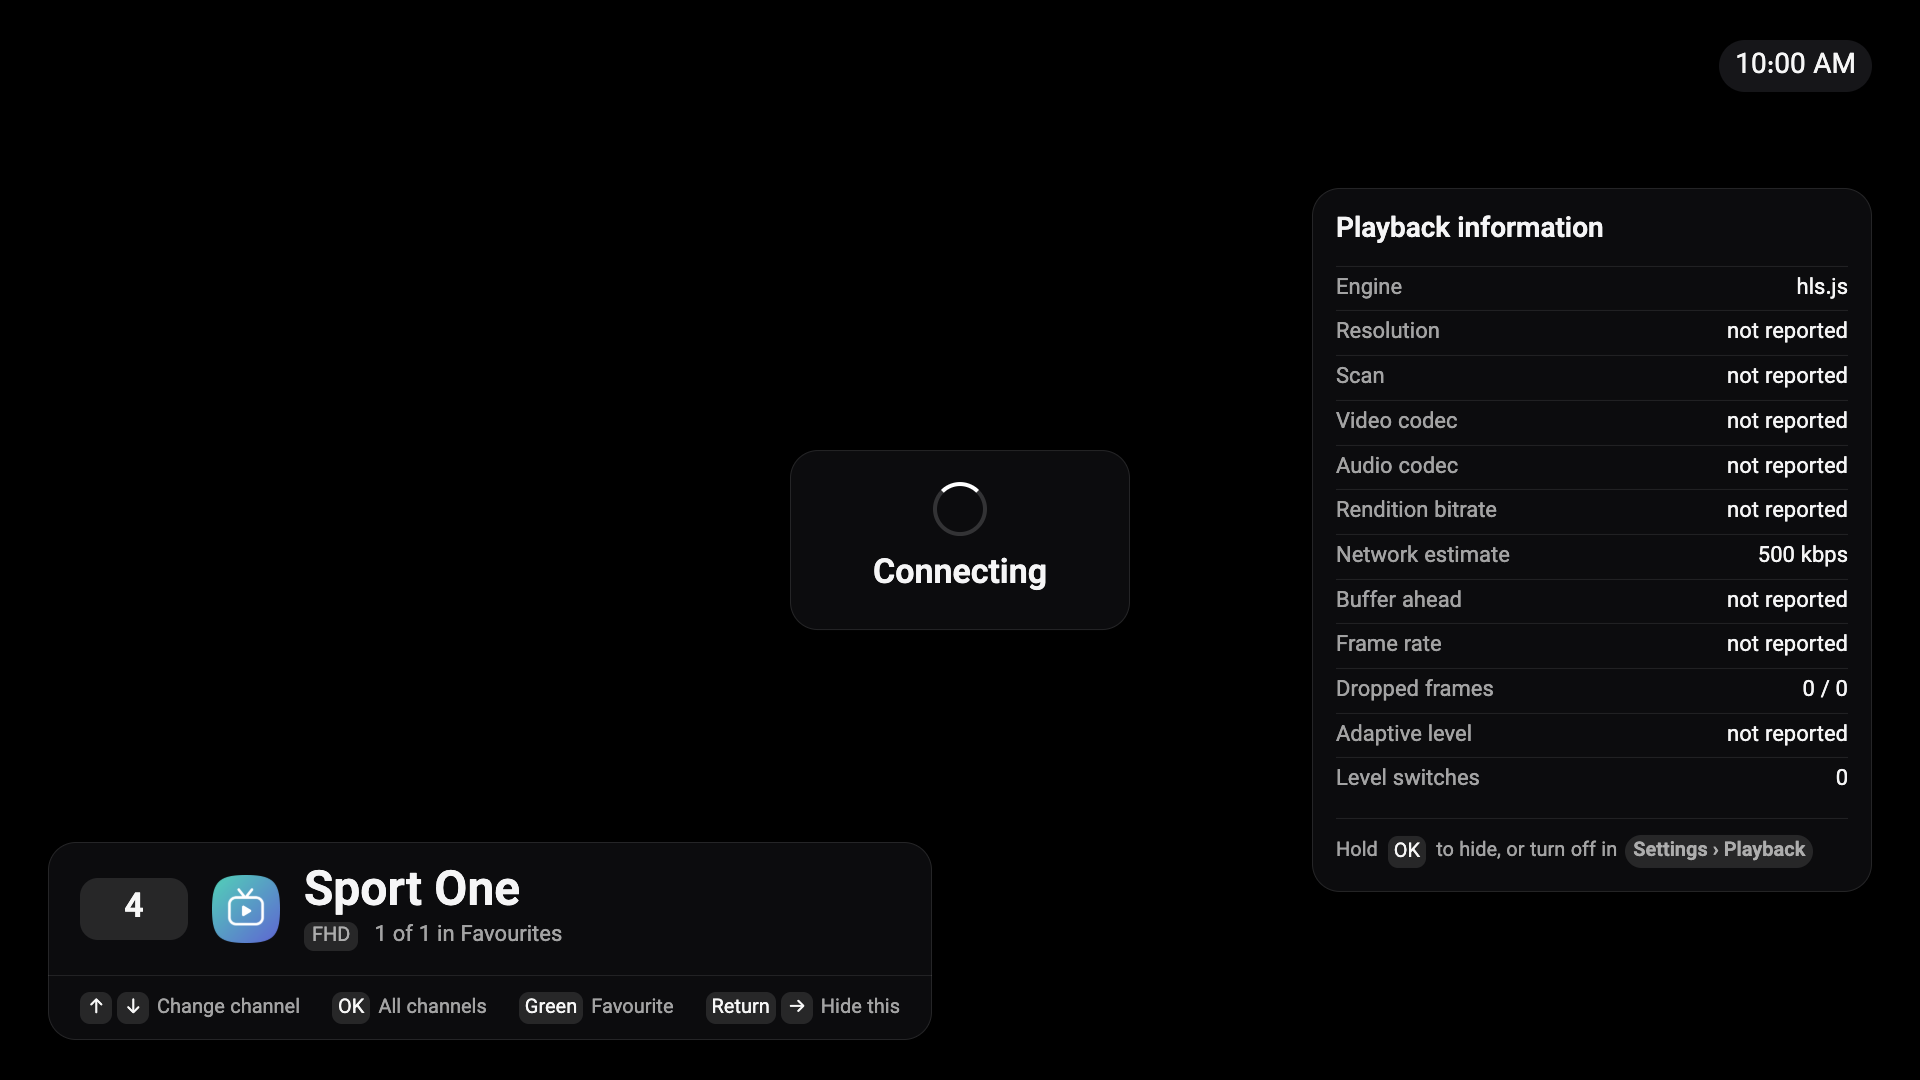
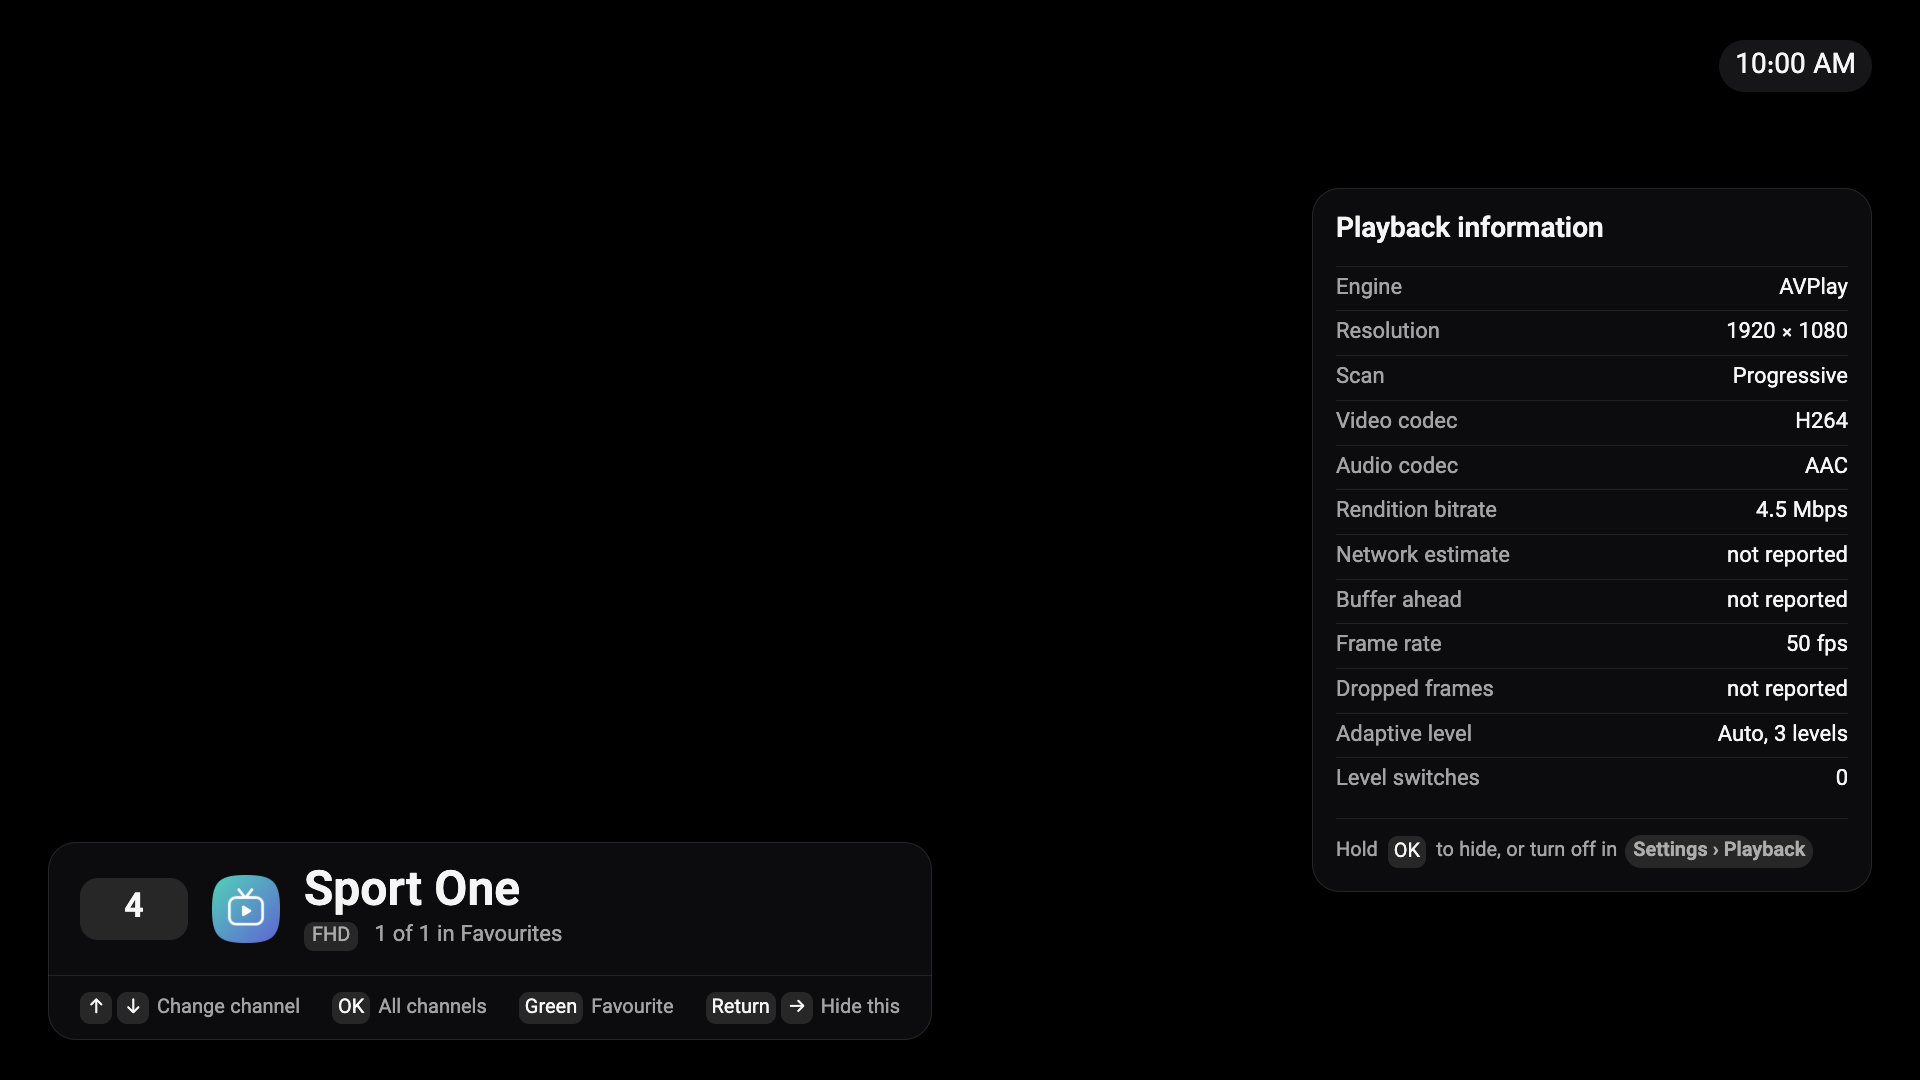
docs: show playback reports in screenshot
Generated with [Devin](https://devin.ai)

diff --git a/README.md b/README.md
@@ -20,7 +20,7 @@ The [demo playlist](https://shayanline.github.io/OpenIPTV/demo/nasa.m3u) contain
 | **Browse categories** | **Search everything** |
 | [<img src="docs/screenshots/05-favourites.png" alt="A favourite channel and the generated Favourites category">](docs/screenshots/05-favourites.png) | [<img src="docs/screenshots/06-settings.png" alt="Playback Settings with screen fit, resume, compatibility and Playback information controls">](docs/screenshots/06-settings.png) |
 | **Keep favourites** | **Adjust playback** |
-| [<img src="docs/screenshots/07-category-management.png" alt="Category management with visibility controls for one playlist">](docs/screenshots/07-category-management.png) | [<img src="docs/screenshots/08-playback-information.png" alt="Playback information centred on the right while a channel connects">](docs/screenshots/08-playback-information.png) |
+| [<img src="docs/screenshots/07-category-management.png" alt="Category management with visibility controls for one playlist">](docs/screenshots/07-category-management.png) | [<img src="docs/screenshots/08-playback-information.png" alt="Playback information showing AVPlay resolution, codecs, bitrate, frame rate and adaptive levels">](docs/screenshots/08-playback-information.png) |
 | **Control categories** | **Inspect playback** |
 
 ### Remote access on another device
